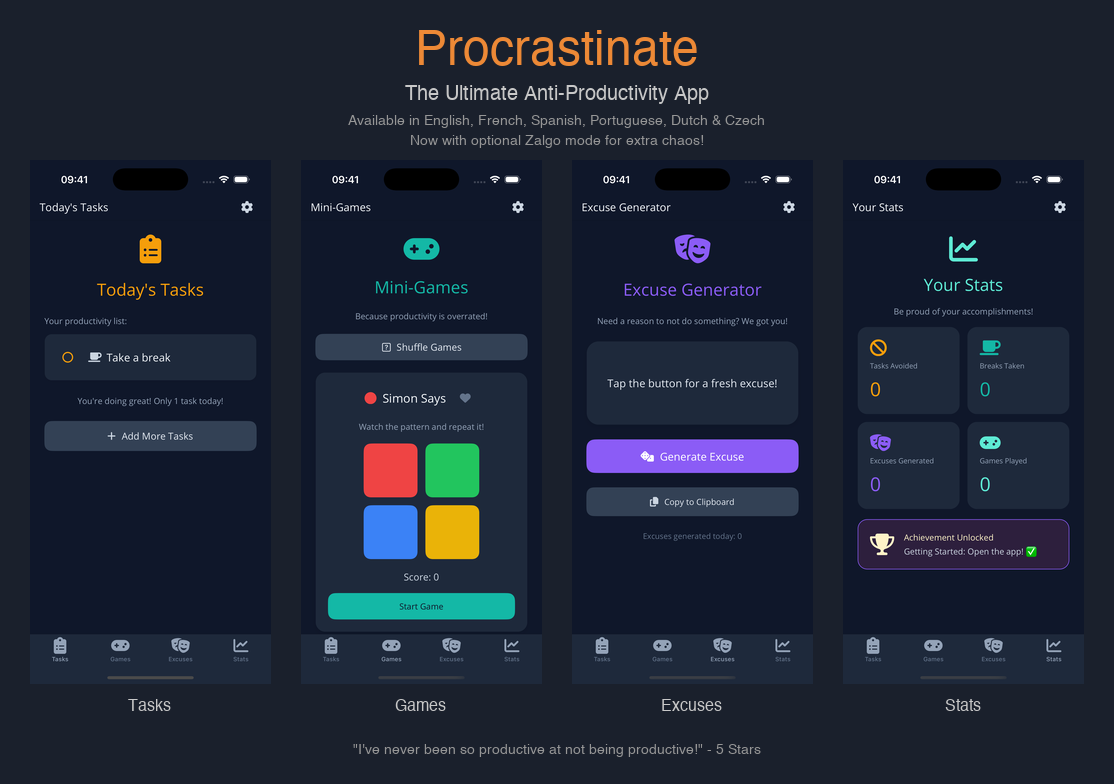
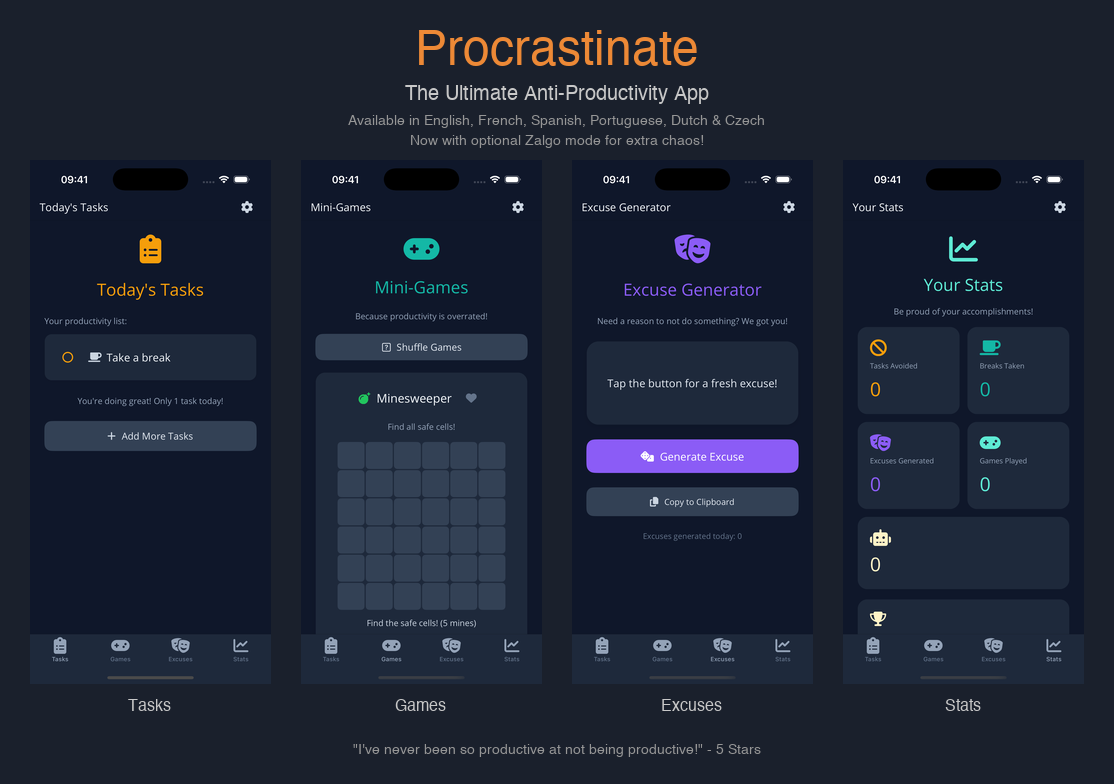
Add API usage tracking and game high scores to Stats page
- Track AI excuse API calls in StatsService
- Track high scores for games with scores (ClickSpeed, SimonSays, Snake, WhackAMole)
- Display AI calls count on Stats page
- Display high scores section on Stats page
- Updated collage with new Stats page layout

Changed region(s): [[0.2747, 0.4898, 0.4883, 0.7959], [0.763, 0.6735, 0.9461, 0.7347], [0.763, 0.7653, 0.7935, 0.7959]]

diff --git a/Pages/StatsPage.xaml b/Pages/StatsPage.xaml
@@ -40,7 +40,7 @@
                    TextColor="{DynamicResource Gray400}"
                    HorizontalOptions="Center"/>
 
-            <Grid ColumnDefinitions="*,*" RowDefinitions="Auto,Auto" ColumnSpacing="12" RowSpacing="12">
+            <Grid ColumnDefinitions="*,*" RowDefinitions="Auto,Auto,Auto" ColumnSpacing="12" RowSpacing="12">
                 <Border BackgroundColor="{DynamicResource CardBackground}" 
                         StrokeShape="RoundRectangle 16" Stroke="Transparent" Padding="20"
                         Grid.Row="0" Grid.Column="0">
@@ -80,7 +80,38 @@
                         <Label x:Name="GamesPlayedLabel" Text="0" FontSize="32" FontAttributes="Bold" TextColor="{DynamicResource AccentLight}"/>
                     </VerticalStackLayout>
                 </Border>
+
+                <Border BackgroundColor="{DynamicResource CardBackground}" 
+                        StrokeShape="RoundRectangle 16" Stroke="Transparent" Padding="20"
+                        Grid.Row="2" Grid.Column="0" Grid.ColumnSpan="2">
+                    <VerticalStackLayout Spacing="8">
+                        <HorizontalStackLayout Spacing="8">
+                            <Label Text="&#xf544;" FontFamily="FontAwesomeSolid" FontSize="28" TextColor="{DynamicResource Warm}"/>
+                            <Label Text="{Binding AIExcuseCalls, Source={x:Static strings:AppStrings.Instance}}" FontSize="12" TextColor="{DynamicResource Gray400}" VerticalOptions="Center"/>
+                        </HorizontalStackLayout>
+                        <Label x:Name="AICallsLabel" Text="0" FontSize="32" FontAttributes="Bold" TextColor="{DynamicResource Warm}"/>
+                    </VerticalStackLayout>
+                </Border>
             </Grid>
+
+            <!-- High Scores Section -->
+            <Border BackgroundColor="{DynamicResource CardBackground}" 
+                    StrokeShape="RoundRectangle 16" 
+                    Stroke="Transparent"
+                    Padding="20">
+                <VerticalStackLayout Spacing="12">
+                    <HorizontalStackLayout Spacing="8">
+                        <Label Text="&#xf091;" FontFamily="FontAwesomeSolid" FontSize="24" TextColor="{DynamicResource Warm}"/>
+                        <Label Text="{Binding HighScores, Source={x:Static strings:AppStrings.Instance}}" FontSize="18" FontAttributes="Bold" TextColor="{DynamicResource Gray100}" VerticalOptions="Center"/>
+                    </HorizontalStackLayout>
+                    <VerticalStackLayout x:Name="HighScoresStack" Spacing="8">
+                        <Label x:Name="NoHighScoresLabel" 
+                               Text="{Binding NoHighScoresYet, Source={x:Static strings:AppStrings.Instance}}"
+                               FontSize="14"
+                               TextColor="{DynamicResource Gray400}"/>
+                    </VerticalStackLayout>
+                </VerticalStackLayout>
+            </Border>
 
             <Border BackgroundColor="#2D1F3D" 
                     StrokeShape="RoundRectangle 16" 

diff --git a/Pages/StatsPage.xaml.cs b/Pages/StatsPage.xaml.cs
@@ -30,6 +30,9 @@ public partial class StatsPage : ContentPage
         BreaksTakenLabel.Text = _statsService.BreaksTaken.ToString();
         ExcusesLabel.Text = _statsService.ExcusesGenerated.ToString();
         GamesPlayedLabel.Text = _statsService.GamesPlayed.ToString();
+        AICallsLabel.Text = _statsService.AIExcuseCalls.ToString();
+
+        RefreshHighScores();
 
         var totalActivity = _statsService.TasksAvoided + _statsService.BreaksTaken + 
                            _statsService.ExcusesGenerated + _statsService.GamesPlayed;
@@ -41,6 +44,35 @@ public partial class StatsPage : ContentPage
             < 15 => GetRandomAchievement(),
             _ => $"🌟 {AppStrings.GetString("LegendaryProcrastinator")} 🌟"
         };
+    }
+
+    private void RefreshHighScores()
+    {
+        var highScores = _statsService.GameHighScores;
+        
+        if (highScores.Count == 0)
+        {
+            NoHighScoresLabel.IsVisible = true;
+            return;
+        }
+
+        NoHighScoresLabel.IsVisible = false;
+        
+        // Clear existing scores (except the NoHighScoresLabel)
+        var toRemove = HighScoresStack.Children.Where(c => c != NoHighScoresLabel).ToList();
+        foreach (var child in toRemove)
+            HighScoresStack.Children.Remove(child);
+
+        foreach (var (game, score) in highScores.OrderByDescending(x => x.Value))
+        {
+            var scoreLabel = new Label
+            {
+                Text = $"{game}: {score}",
+                FontSize = 16,
+                TextColor = (Color)Application.Current!.Resources["Gray200"]
+            };
+            HighScoresStack.Children.Add(scoreLabel);
+        }
     }
 
     private string GetRandomAchievement()

diff --git a/Services/StatsService.cs b/Services/StatsService.cs
@@ -6,14 +6,29 @@ public class StatsService
     private int _excusesGenerated;
     private int _gamesPlayed;
     private int _breaksTaken;
+    private int _aiExcuseCalls;
+    private readonly Dictionary<string, int> _gameHighScores = [];
 
     public int TasksAvoided => _tasksAvoided;
     public int ExcusesGenerated => _excusesGenerated;
     public int GamesPlayed => _gamesPlayed;
     public int BreaksTaken => _breaksTaken;
+    public int AIExcuseCalls => _aiExcuseCalls;
+    public IReadOnlyDictionary<string, int> GameHighScores => _gameHighScores;
 
     public void IncrementTasksAvoided() => _tasksAvoided++;
     public void IncrementExcusesGenerated() => _excusesGenerated++;
     public void IncrementGamesPlayed() => _gamesPlayed++;
     public void IncrementBreaksTaken() => _breaksTaken++;
+    public void IncrementAIExcuseCalls() => _aiExcuseCalls++;
+
+    public void UpdateHighScore(string gameName, int score)
+    {
+        if (!_gameHighScores.TryGetValue(gameName, out var current) || score > current)
+        {
+            _gameHighScores[gameName] = score;
+        }
+    }
+
+    public int GetHighScore(string gameName) => _gameHighScores.TryGetValue(gameName, out var score) ? score : 0;
 }

diff --git a/Services/ExcuseService.cs b/Services/ExcuseService.cs
@@ -3,9 +3,11 @@ namespace procrastinate.Services;
 public class ExcuseService
 {
     private readonly Dictionary<string, IExcuseGenerator> _generators;
+    private readonly StatsService _stats;
     
-    public ExcuseService()
+    public ExcuseService(StatsService stats)
     {
+        _stats = stats;
         _generators = new Dictionary<string, IExcuseGenerator>
         {
             { "random", new RandomExcuseGenerator() },
@@ -34,13 +36,22 @@ public class ExcuseService
     public async Task<string> GenerateExcuseAsync(string language)
     {
         var generator = GetCurrentGenerator();
+        var usingCloud = CurrentMode == "cloud" && generator.IsAvailable;
         
         // Fallback to random if cloud is not available
         if (!generator.IsAvailable && CurrentMode == "cloud")
         {
             generator = _generators["random"];
+            usingCloud = false;
         }
         
-        return await generator.GenerateExcuseAsync(language);
+        var result = await generator.GenerateExcuseAsync(language);
+        
+        if (usingCloud)
+        {
+            _stats.IncrementAIExcuseCalls();
+        }
+        
+        return result;
     }
 }

diff --git a/Pages/Games/ClickSpeedGameView.xaml.cs b/Pages/Games/ClickSpeedGameView.xaml.cs
@@ -11,6 +11,7 @@ public partial class ClickSpeedGameView : ContentView, INotifyPropertyChanged
     private string _scoreText = "";
     
     public Action? OnGamePlayed { get; set; }
+    public Action<int>? OnHighScore { get; set; }
 
     public string ScoreText
     {
@@ -40,6 +41,7 @@ public partial class ClickSpeedGameView : ContentView, INotifyPropertyChanged
         ClickBtn.IsEnabled = false;
         StartBtn.IsEnabled = true;
         ScoreText = AppStrings.GetString("FinalClicks", _clickCount, _clickCount / 5.0);
+        OnHighScore?.Invoke(_clickCount);
     }
 
     private void OnClickBtnClicked(object? sender, EventArgs e)

diff --git a/Pages/Games/SnakeGameView.xaml.cs b/Pages/Games/SnakeGameView.xaml.cs
@@ -14,6 +14,7 @@ public partial class SnakeGameView : ContentView
     private readonly BoxView[,] _cells = new BoxView[GridSize, GridSize];
     
     public Action? OnGamePlayed { get; set; }
+    public Action<int>? OnHighScore { get; set; }
 
     public SnakeGameView()
     {
@@ -147,6 +148,7 @@ public partial class SnakeGameView : ContentView
         try { Accelerometer.Stop(); } catch { }
         Accelerometer.ReadingChanged -= OnAccelerometerReading;
         StatusLabel.Text = AppStrings.GetString("GameOverScore", _score);
+        OnHighScore?.Invoke(_score);
         StartBtn.IsEnabled = true;
     }
 

diff --git a/Pages/Games/SimonSaysGameView.xaml.cs b/Pages/Games/SimonSaysGameView.xaml.cs
@@ -12,6 +12,7 @@ public partial class SimonSaysGameView : ContentView
     private readonly Dictionary<int, IAudioPlayer?> _sounds = [];
     
     public Action? OnGamePlayed { get; set; }
+    public Action<int>? OnHighScore { get; set; }
 
     public SimonSaysGameView()
     {
@@ -122,6 +123,7 @@ public partial class SimonSaysGameView : ContentView
         else
         {
             ScoreLabel.Text = AppStrings.GetString("GameOver", _score);
+            OnHighScore?.Invoke(_score);
             StartBtn.IsEnabled = true;
             SetButtonsEnabled(false);
         }

diff --git a/Pages/Games/WhackAMoleGameView.xaml.cs b/Pages/Games/WhackAMoleGameView.xaml.cs
@@ -12,6 +12,7 @@ public partial class WhackAMoleGameView : ContentView
     private CancellationTokenSource? _cts;
     
     public Action? OnGamePlayed { get; set; }
+    public Action<int>? OnHighScore { get; set; }
 
     public WhackAMoleGameView()
     {
@@ -84,6 +85,7 @@ public partial class WhackAMoleGameView : ContentView
         _running = false;
         StartBtn.IsEnabled = true;
         ScoreLabel.Text = AppStrings.GetString("GameOverScore", _score);
+        OnHighScore?.Invoke(_score);
     }
 
     private void OnHoleClicked(int row, int col)

diff --git a/Pages/GamesPage.xaml.cs b/Pages/GamesPage.xaml.cs
@@ -30,7 +30,10 @@ public partial class GamesPage : ContentPage
         ];
 
         foreach (var game in _allGames)
+        {
             game.OnGamePlayed = () => _statsService.IncrementGamesPlayed();
+            game.OnHighScore = (name, score) => _statsService.UpdateHighScore(name, score);
+        }
 
         UpdateShuffleButton();
         ShuffleGames();

diff --git a/Pages/Games/ClickSpeedGame.cs b/Pages/Games/ClickSpeedGame.cs
@@ -15,7 +15,8 @@ public class ClickSpeedGame : MiniGame
     {
         _gameView = new ClickSpeedGameView
         {
-            OnGamePlayed = () => OnGamePlayed?.Invoke()
+            OnGamePlayed = () => OnGamePlayed?.Invoke(),
+            OnHighScore = score => OnHighScore?.Invoke(Name, score)
         };
         return _gameView;
     }

diff --git a/Pages/Games/WhackAMoleGame.cs b/Pages/Games/WhackAMoleGame.cs
@@ -15,7 +15,8 @@ public class WhackAMoleGame : MiniGame
     {
         _gameView = new WhackAMoleGameView
         {
-            OnGamePlayed = () => OnGamePlayed?.Invoke()
+            OnGamePlayed = () => OnGamePlayed?.Invoke(),
+            OnHighScore = score => OnHighScore?.Invoke(Name, score)
         };
         return _gameView;
     }

diff --git a/Pages/Games/SimonSaysGame.cs b/Pages/Games/SimonSaysGame.cs
@@ -15,7 +15,8 @@ public class SimonSaysGame : MiniGame
     {
         _gameView = new SimonSaysGameView
         {
-            OnGamePlayed = () => OnGamePlayed?.Invoke()
+            OnGamePlayed = () => OnGamePlayed?.Invoke(),
+            OnHighScore = score => OnHighScore?.Invoke(Name, score)
         };
         return _gameView;
     }
